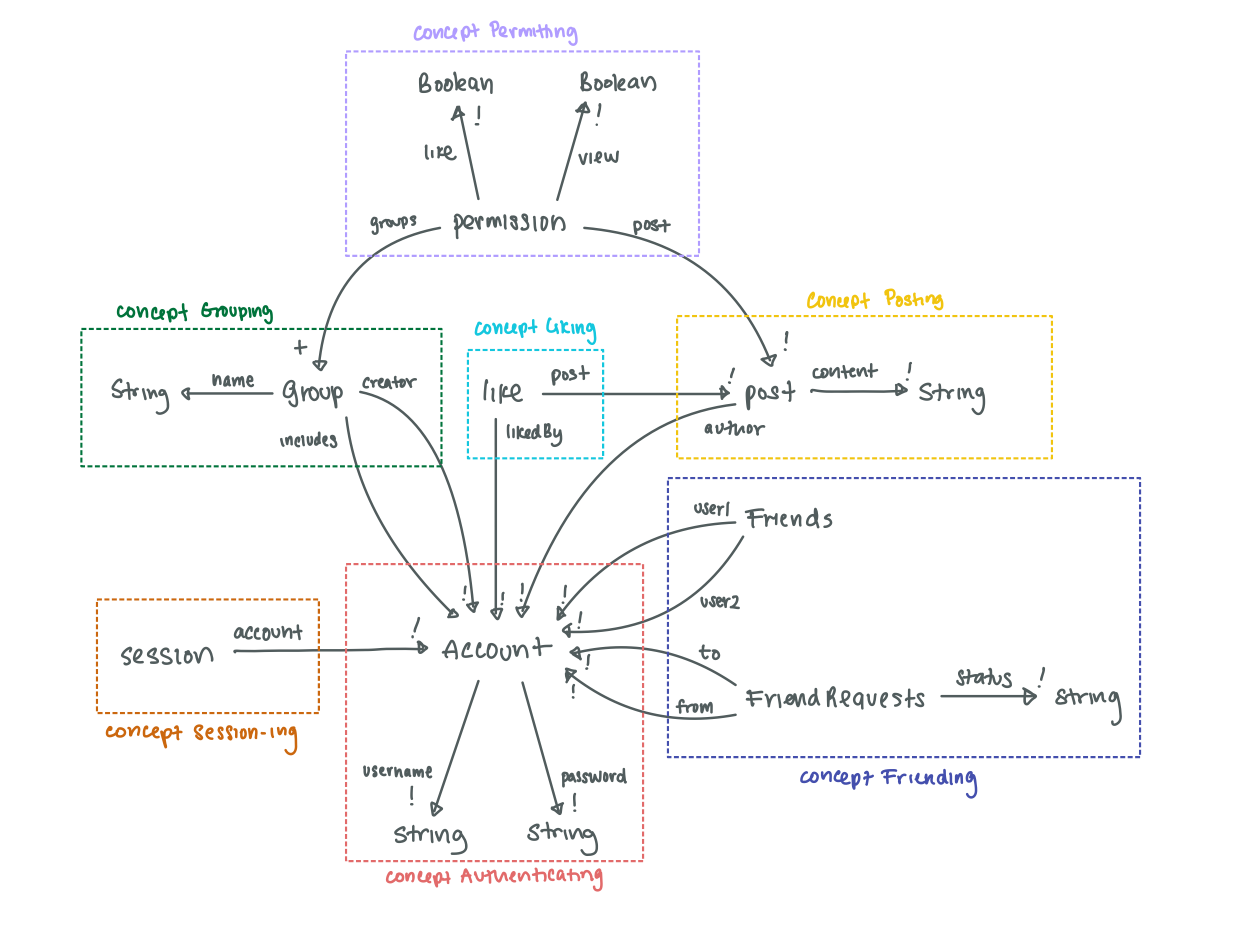
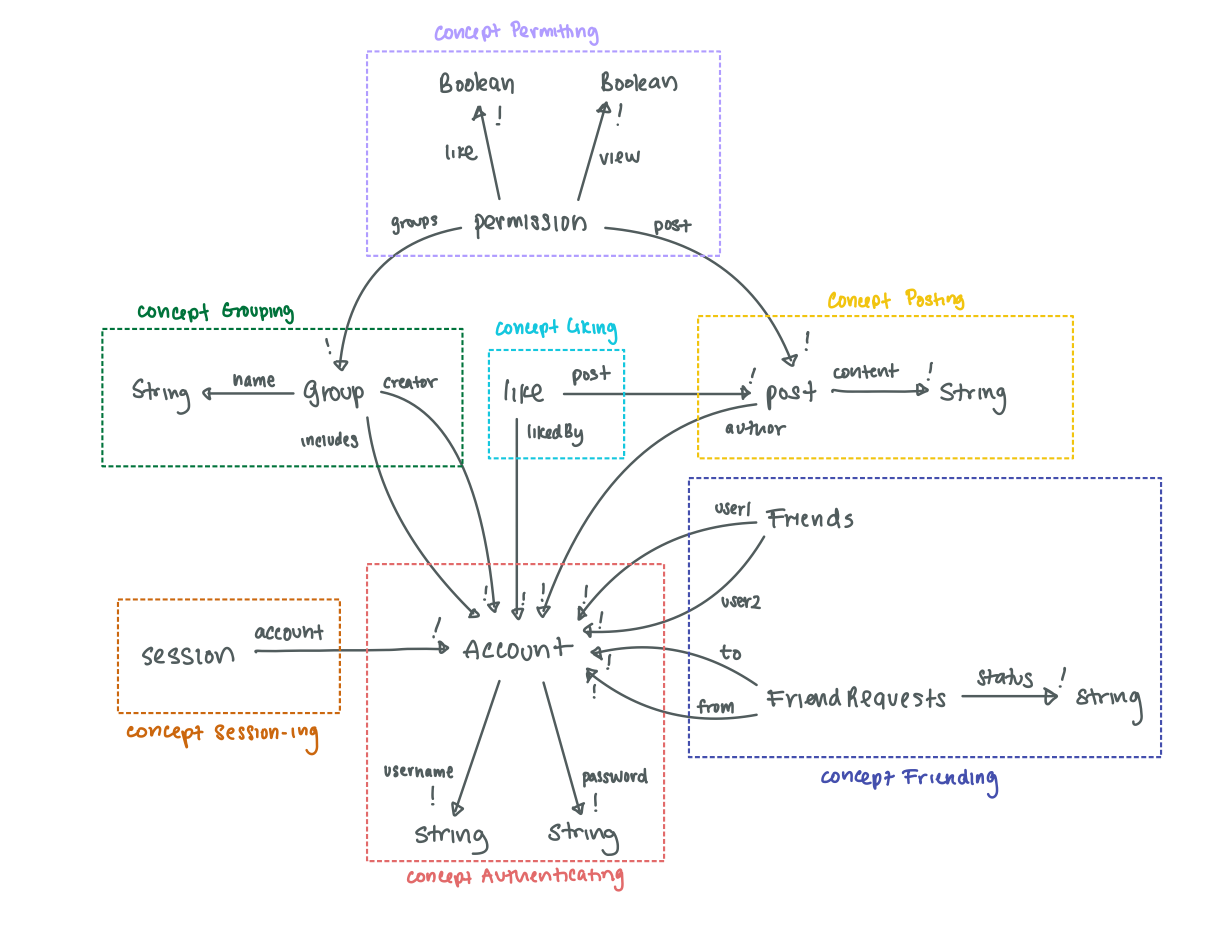
small fixes

Changed region(s): [[0.0621, 0.2178, 0.9624, 0.9646], [0.3105, 0.0, 0.5588, 0.1867]]

diff --git a/docs/assignments/assignment4a.md b/docs/assignments/assignment4a.md
@@ -64,7 +64,7 @@ state
 concept Permitting[Group, Post]
 state
 	permissions: set Permission
-	groups: Permission → some Group
+	groups: Permission → one Group
     post: Permission → one Post
     view: Permission → one Bool
     like: Permission → one Bool
